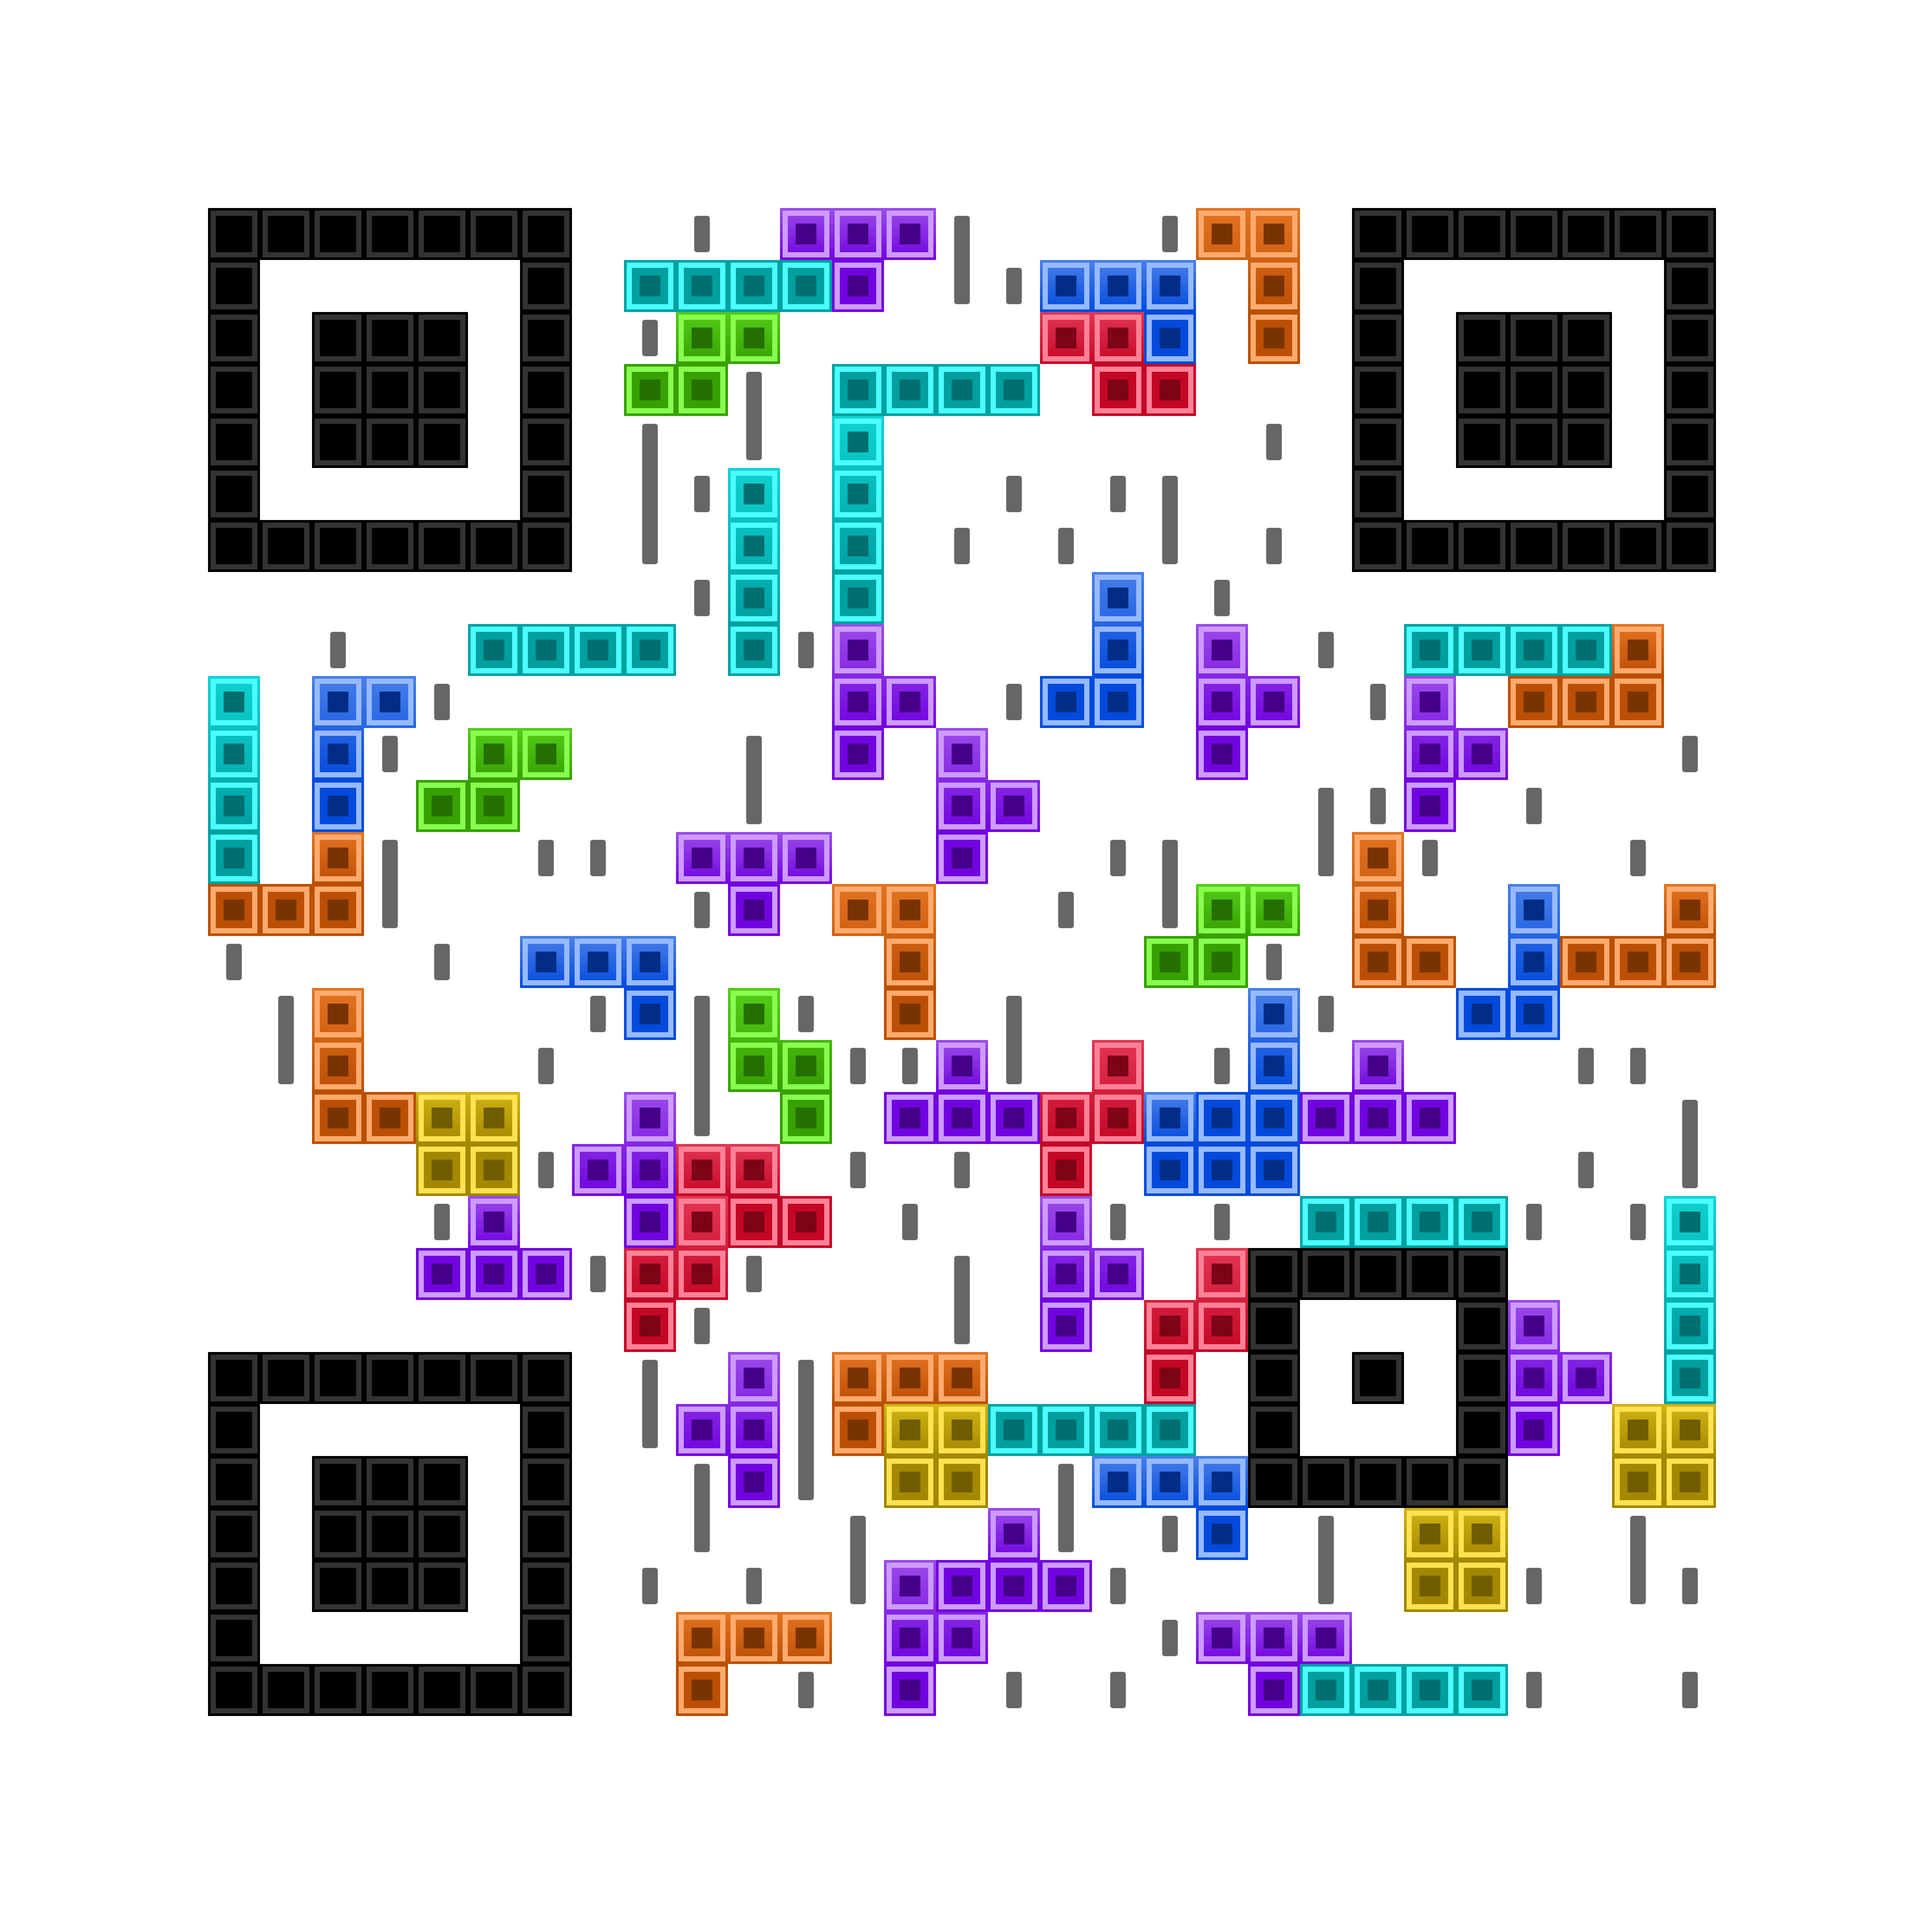
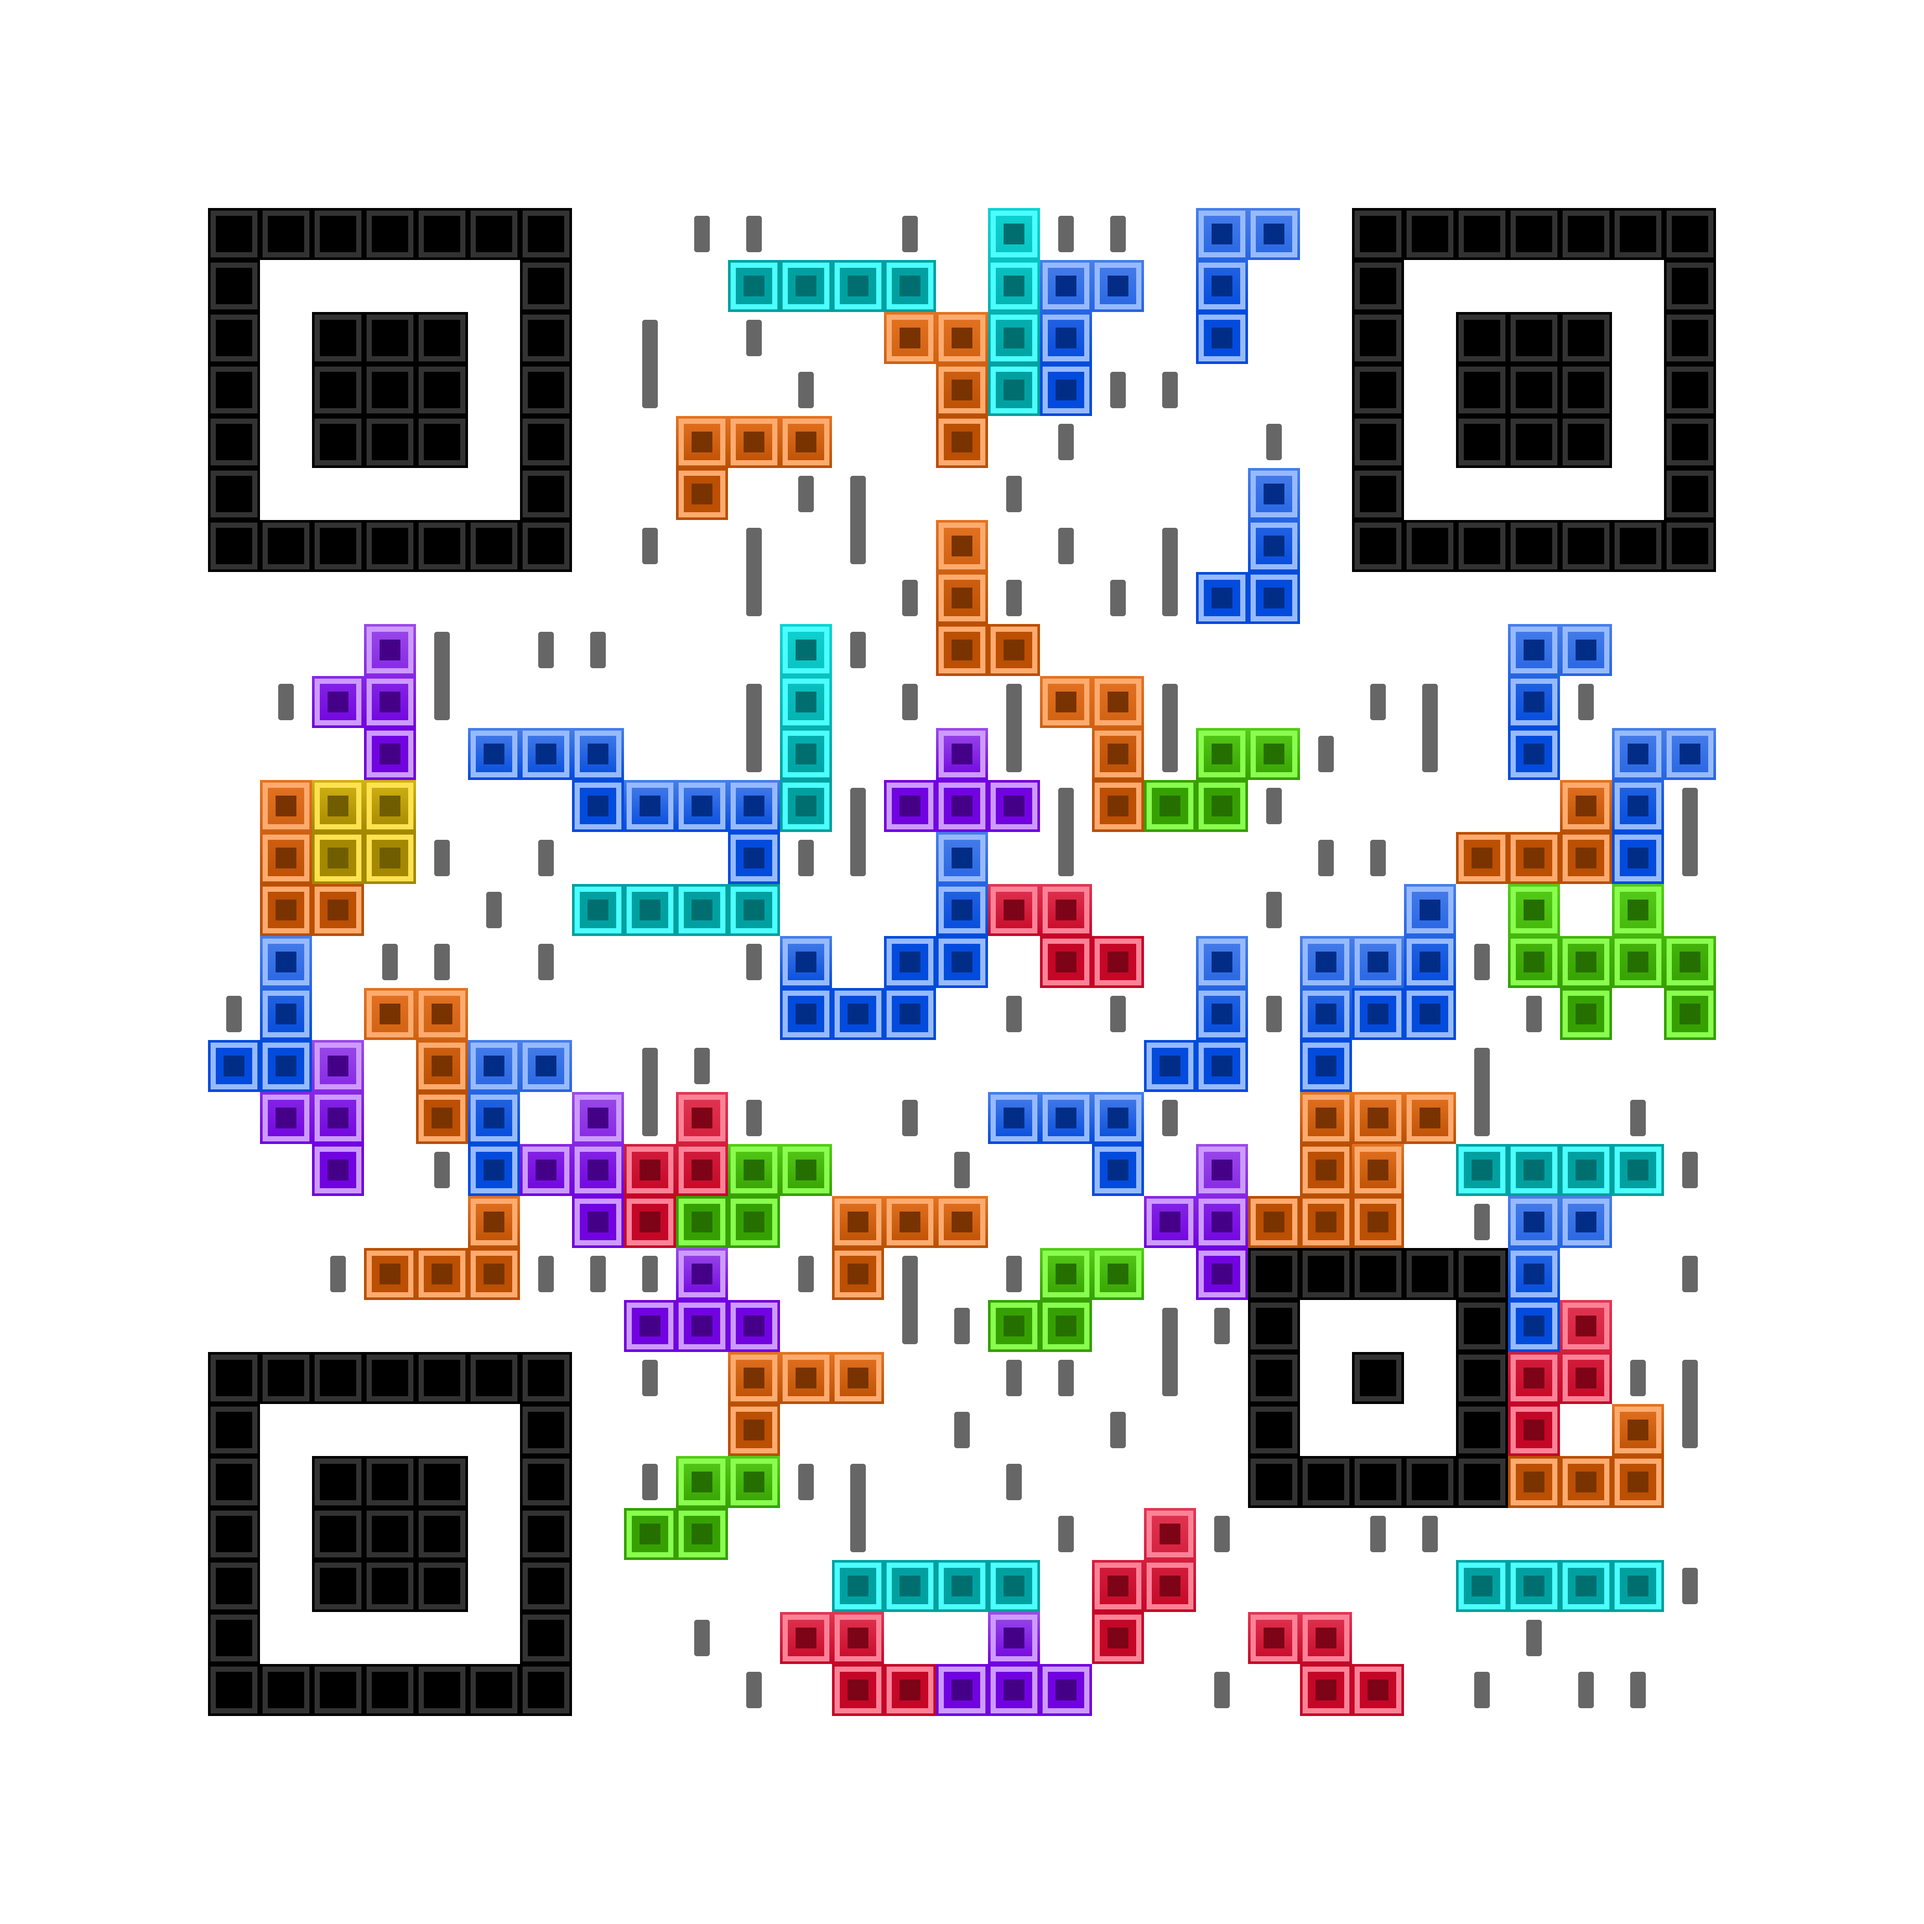
update docs

Changed region(s): [[0.0932, 0.0932, 0.9014, 0.9014]]

diff --git a/examples/tetris/index.js b/examples/tetris/index.js
@@ -7,7 +7,7 @@ tetris()
 export async function tetris(){
   
   let qr = find_ideal_qr({
-    data_options: permuteURL('m4r.sh/qr/tetris'),
+    data_options: permuteURL('m4r.sh'),
     ecl: 'medium',
     version: 3
   })

diff --git a/README.md b/README.md
@@ -25,7 +25,7 @@ bun install qrsart
 ```js
 import { createQR } from 'qrsart'
 
-let qr = createQR('https://github.com/m4r-sh/qrsart',{
+let qr = createQR('HTTPS://GITHUB.COM/m4r-sh/qrsart',{
   minVersion: 2, // 1 - 40
   minEcl: 'medium', // 'low','medium','quartile','high'
   mask: 0, // 0 - 7
